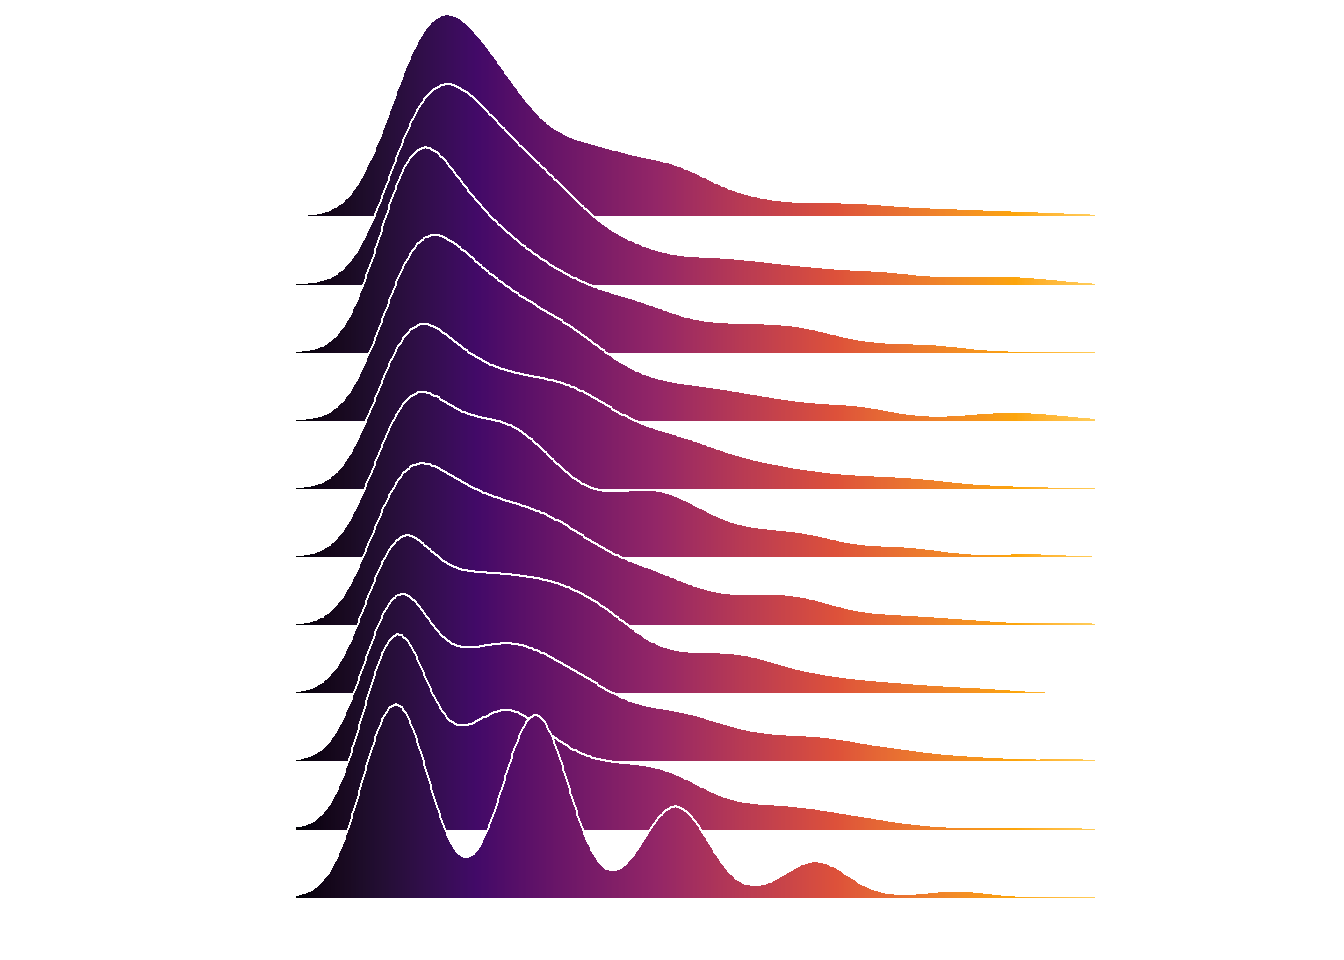
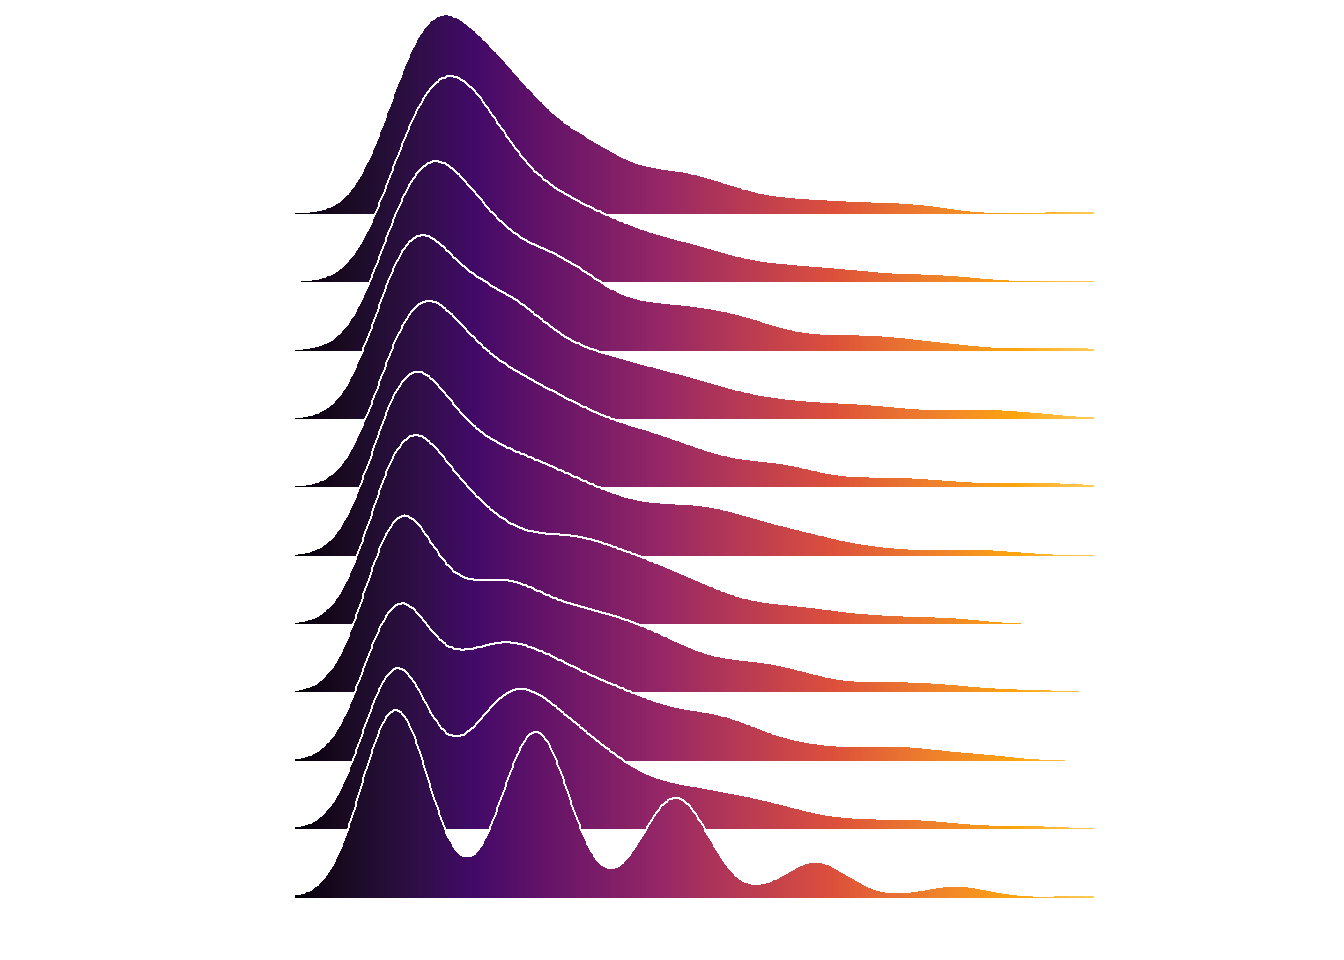
revisiting jupyter

diff --git a/content/post/2018-08-03-first-post.html b/content/post/2018-08-03-first-post.html
@@ -103,7 +103,7 @@ df %&gt;%
 }
 
 joyplot(df)</code></pre>
-<pre><code>## Picking joint bandwidth of 0.236</code></pre>
+<pre><code>## Picking joint bandwidth of 0.24</code></pre>
 <p><img src="/post/2018-08-03-first-post_files/figure-html/joyplot1-1.png" width="672" /></p>
 <p>I order to distribute them a bit better over the x-axis we will transform them using a sine wave pattern.</p>
 <pre class="r"><code>df = tibble( p = seq(1,2,0.05)

diff --git a/content/post/2018-10-25-revisiting-jupyter-notebooks.md b/content/post/2018-10-25-revisiting-jupyter-notebooks.md
@@ -1,0 +1,55 @@
+---
+title: Revisiting jupyter notebooks
+author: Björn Koneswarakantha
+date: '2018-10-25'
+slug: revisiting-jupyter-notebooks
+categories:
+  - R vs. python
+  - jupyter
+tags:
+  - R vs. python
+  - jupyter
+summary : There has been a lot of fuzz about jupyter notebooks lately, so lets revisit some of its features and use-cases.
+thumbnailImagePosition : left
+thumbnailImage : https://gitlab.eurecom.fr/zoe-apps/pytorch/avatar
+---
+
+There has been a lot of discussion about jupyter notebooks in the online channels I consume and the point of this post is to bring them together.
+
+Coming from R and beeing a heavy user of Rmarkdown files jupyter notebooks felt familiar right away but also a bit awkward. Datacamp made the effort of comparing the to feature by feature in a [blog post](https://www.datacamp.com/community/blog/jupyter-notebook-r) at the end of 2016. It is a bit out-dated but skimming through it most of it still holds to be true. With some exceptions. of course since there have been some developments on both sides. But more on that later 
+
+In the end what we want from both tools are four things:
+- [literate programming](https://en.wikipedia.org/wiki/Literate_programming), meaning we can have natural language code comments and code output right next to our actual code and have all three components well seperated.
+- create awesome code-enriched html content
+- polyglot coding, the division of code in small executable chunks also allows us to run each chunk in a different programming language
+- comofortable programming, being able to use IDE features, like code comnpletion, visual representation of all variables, data and variable exploration, git-based version control
+
+
+Both jupyter and Rmarkdown can be used for all these things, however there are some criticism on how jupyter performs in these categories. Most fameously summed up by Joel Grus at jupytercon this year in his [presentation](https://docs.google.com/presentation/d/1n2RlMdmv1p25Xy5thJUhkKGvjtV-dkAIsUXP-AL4ffI/edit#slide=id.g3b600ce1e2_0_0) and Owain Kenway in ths older [blogpost](https://owainkenwayucl.github.io/2017/10/03/WhyIDontLikeNotebooks.html).
+
+To sum this criticism up is that jupyter by design stores its output within the notebook file. The codeoutput can be saved at any time and then code chunks can be executed in any given order. When opening a jupyter notebook, there is no garantuee that execution of all code chunks will again result in the same output. Code output is saved as a binary addition to the underlying json a format that is not compatible with version control tools. 
+
+Personally for me this is the reason why I am not using jupyter for programming. Unless I want to create some python-based html content as for this blog for example.
+
+However Brian Granger from project jupyter hase recently been on the [dataframed podcast](https://www.datacamp.com/community/podcast/project-jupyter-interactive-computing) and has talked about his vision of project jupyter. He mentioned to things that stuck with me.
+
+- do not use jupyter notebooks use jupyter lab, because jupyter lab is more advanced and makes things better for you on the IDE side.
+- at netflix they are running thousands of jupyter jobs a day.
+
+So this made me very curious because it sounds like finally there is a well implemented solution to ensuring execution of code chunks in order. So I stumbled across this [blog post](https://medium.com/netflix-techblog/notebook-innovation-591ee3221233) in which netflix was showing their jupyter system landscape. 
+
+![](https://medium.com/netflix-techblog/notebook-innovation-591ee3221233)
+
+This is quite outstanding, especially the tool [`papermill`](https://github.com/nteract/papermill) caught my attention which allows you to pass parameters to notebooks. A feature I was dearly missing from Rmarkdown. The code output of a jupyter notebook run with a fixed set of parameters via papermill is sure to be reproducible. Also it makes jupyter notebooks production compatible so we do not have to copy paste all the notebook code into a .py file and rewrite the whole thing.
+
+On a second note the company nteract also develops [`hydrogen`](https://github.com/nteract/hydrogen) one of the most popular `atom` packages. (`atom` is an open-source text editor which has become my new favourite IDE for python development) 
+
+Parametrized reports are a feature that has been around in Rmarkdown for a while, but it might be difficult to set-up a similar R-Spark landscape that works as well as the python-Spark infrastructure. 
+
+So I guess purists will probably always feel a bit cranky about jupyter and its json-based file format. But there seems to be a silver lining and we might finally be able to integrate jupyter more sensibly into our workflows.
+
+But still as Brian Granger mentioned on the [dataframed podcast](https://www.datacamp.com/community/podcast/project-jupyter-interactive-computing) there are no best-practice guidelines for jupyter notebooks at the moment and that is something that they are working on.
+
+
+
+
